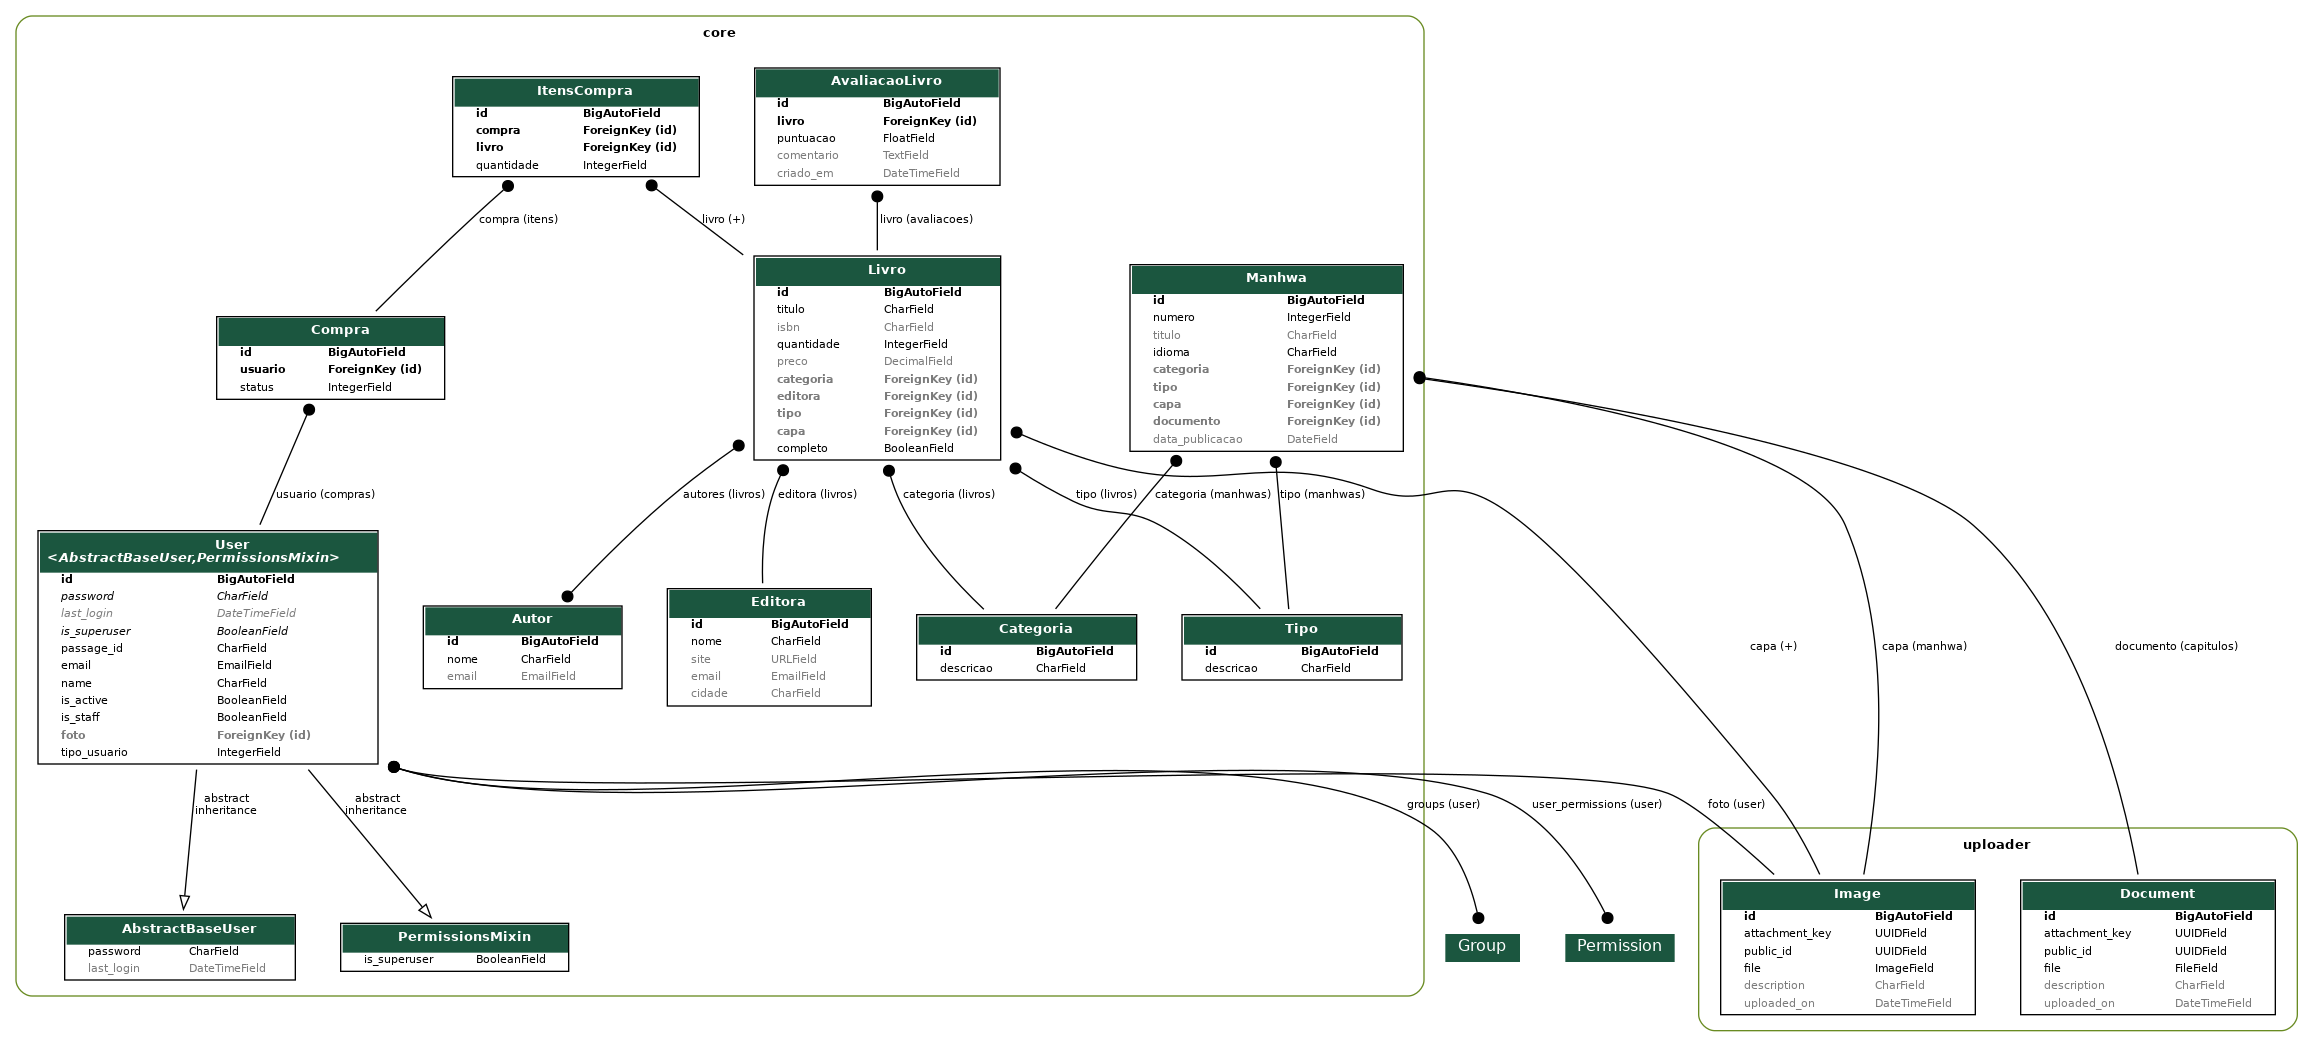
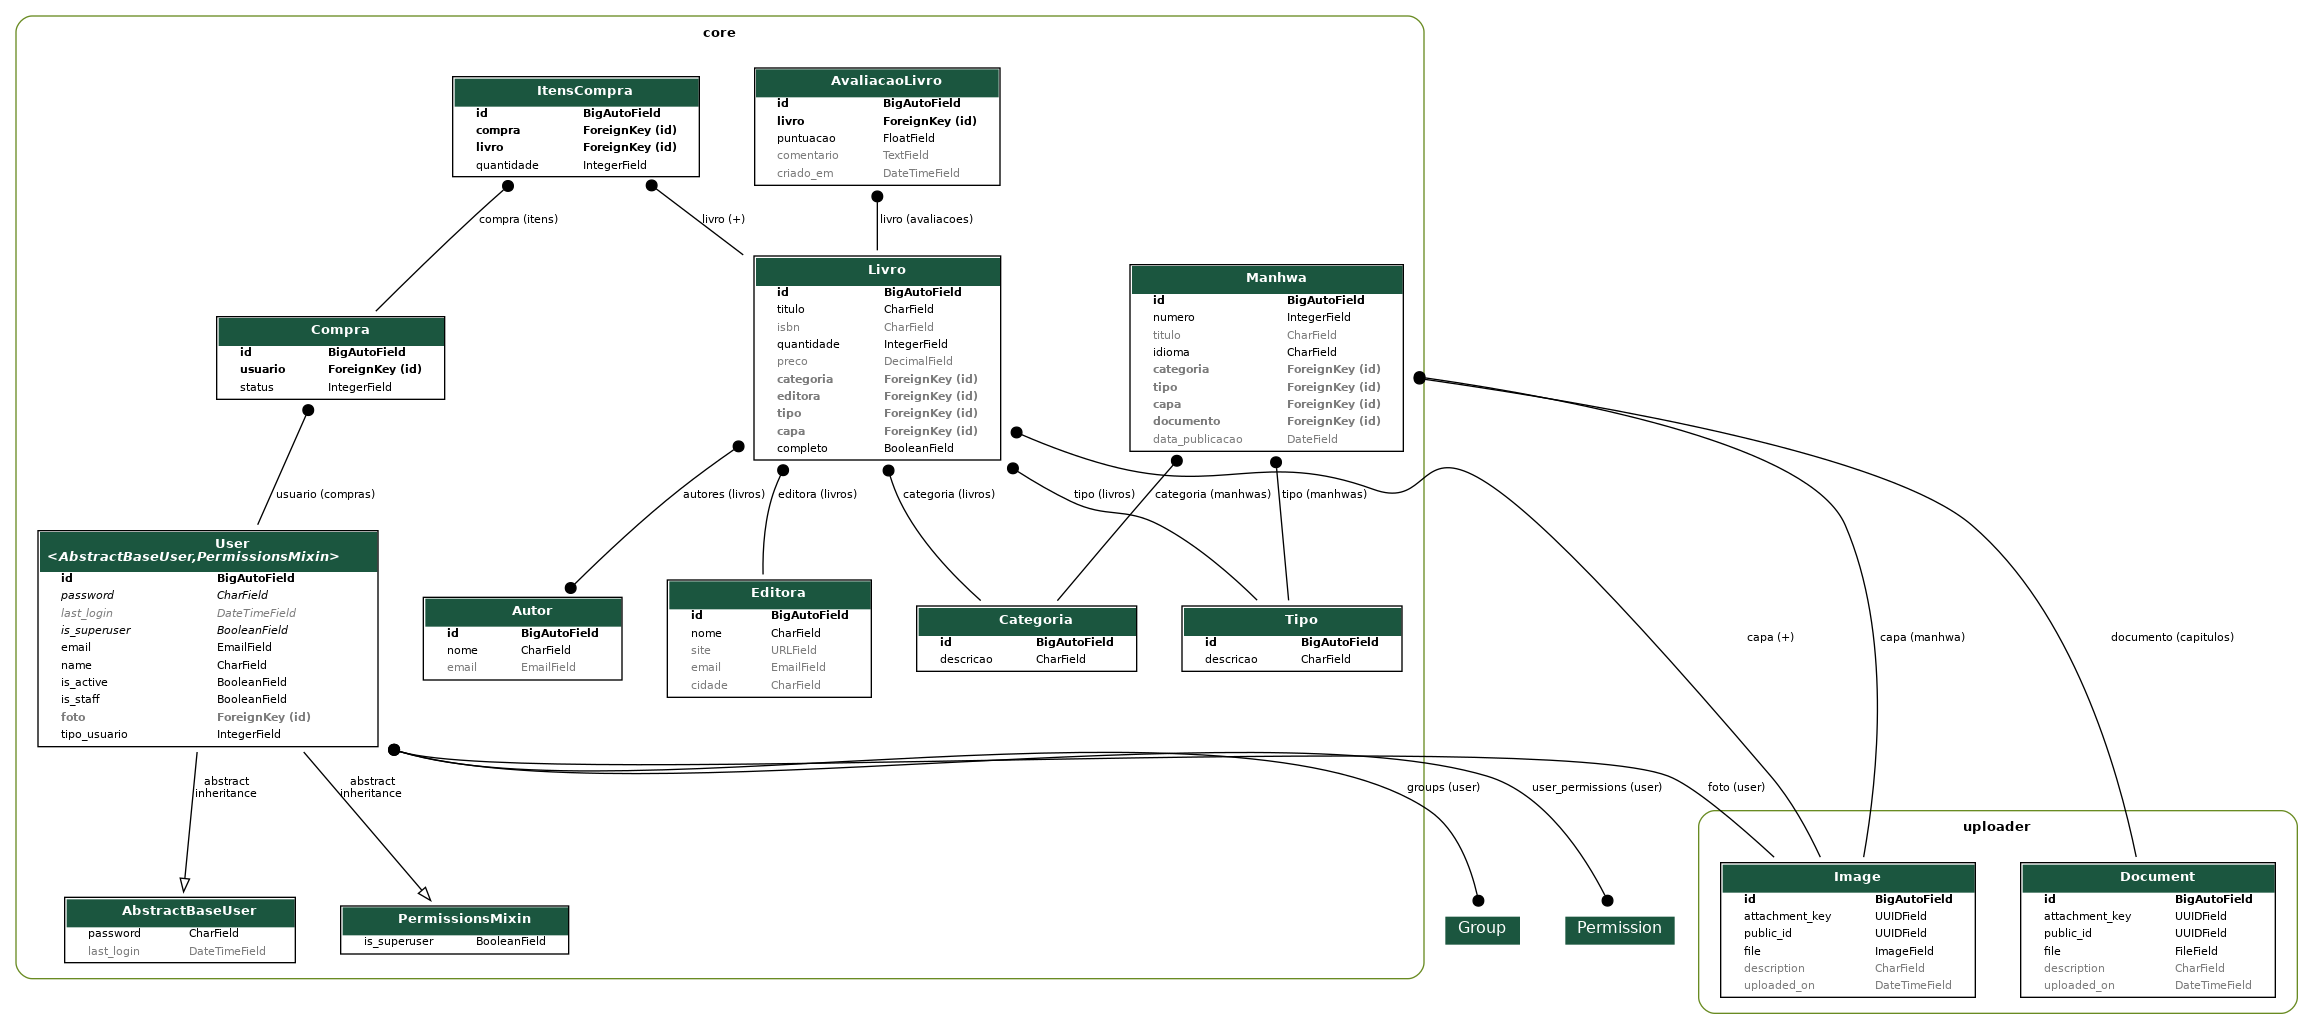
Nose

diff --git a/core/migrations/0026_remove_user_passage_id.py b/core/migrations/0026_remove_user_passage_id.py
@@ -1,0 +1,17 @@
+# Generated by Django 5.1.3 on 2024-12-03 19:01
+
+from django.db import migrations
+
+
+class Migration(migrations.Migration):
+
+    dependencies = [
+        ("core", "0025_user_tipo_usuario_alter_user_foto"),
+    ]
+
+    operations = [
+        migrations.RemoveField(
+            model_name="user",
+            name="passage_id",
+        ),
+    ]

diff --git a/core/admin.py b/core/admin.py
@@ -42,7 +42,7 @@ class UserAdmin(BaseUserAdmin):
                     "password1",
                     "password2",
                     "name",
-                    "passage_id",  # Adicione este campo ao formulário de criação
+                
                     "is_active",
                     "is_staff",
                     "is_superuser",
